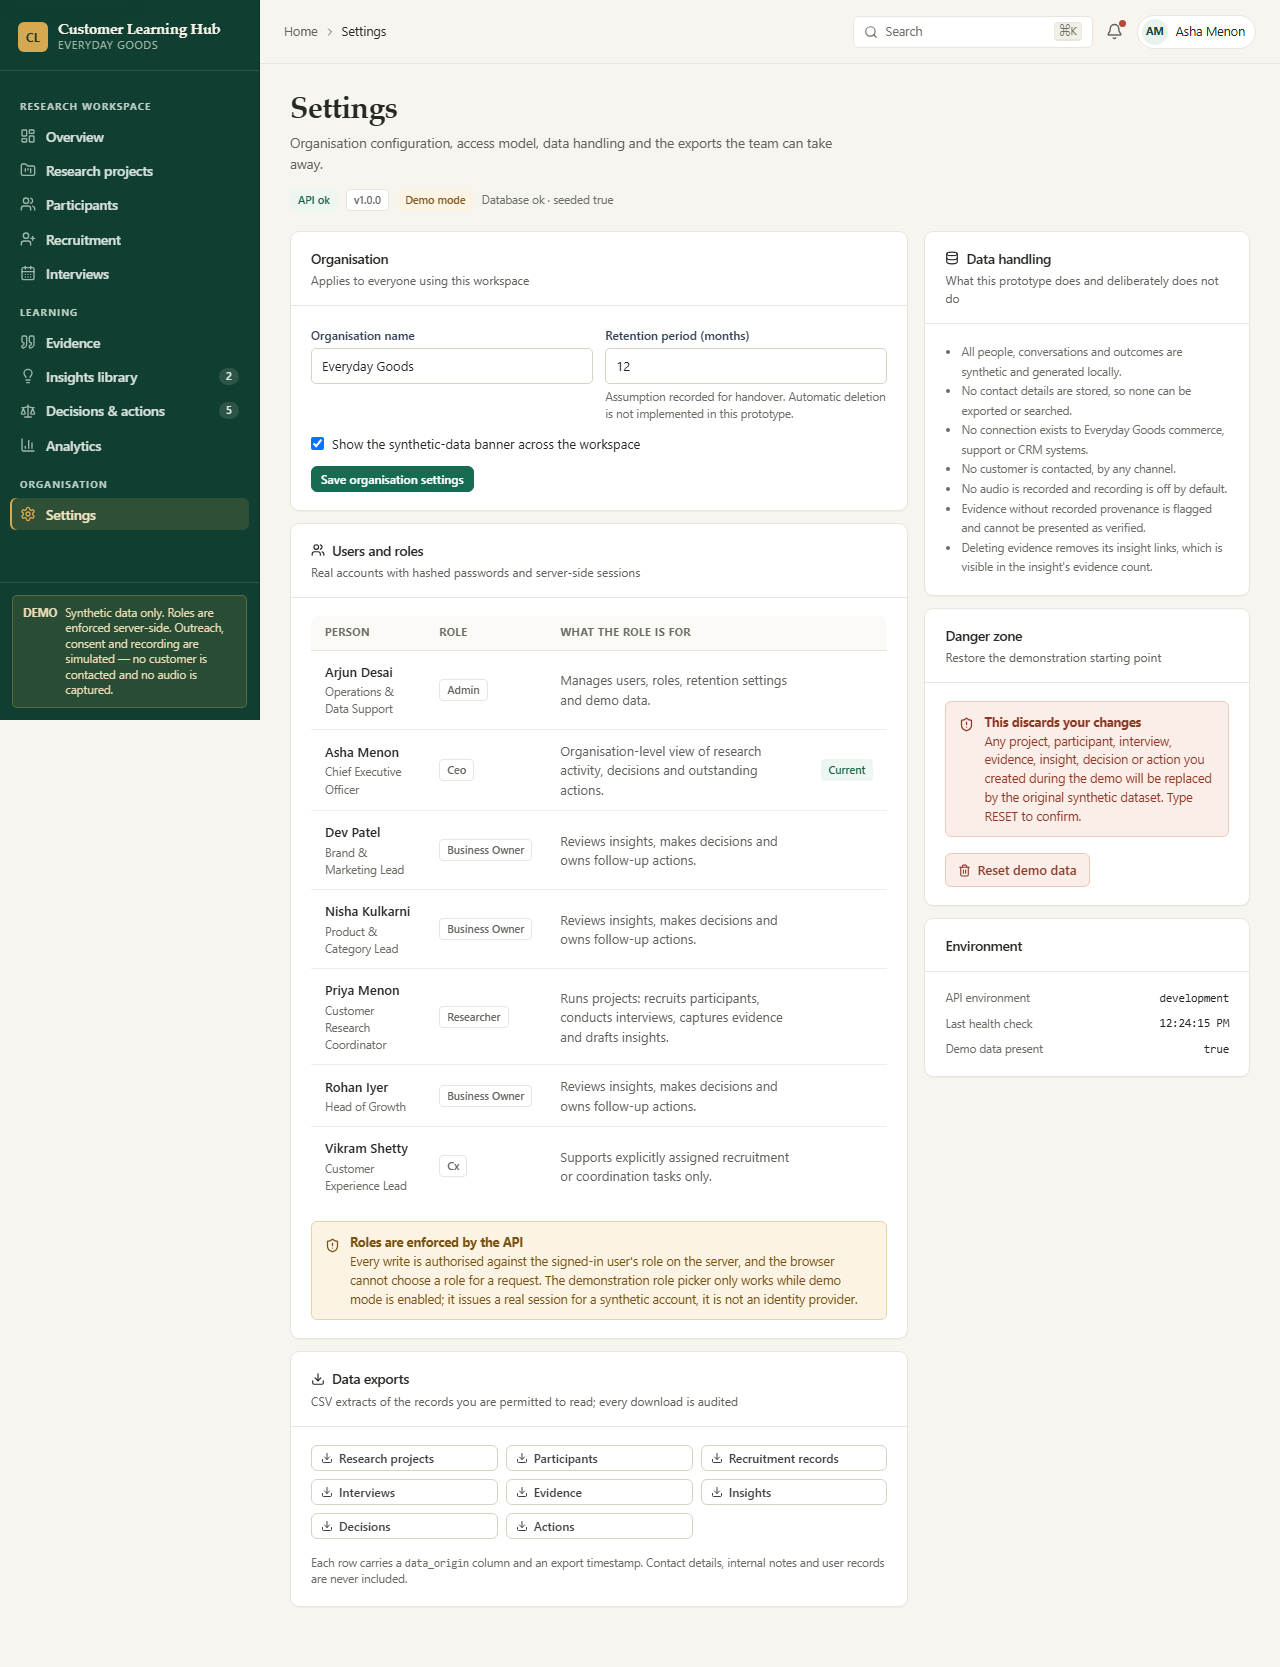
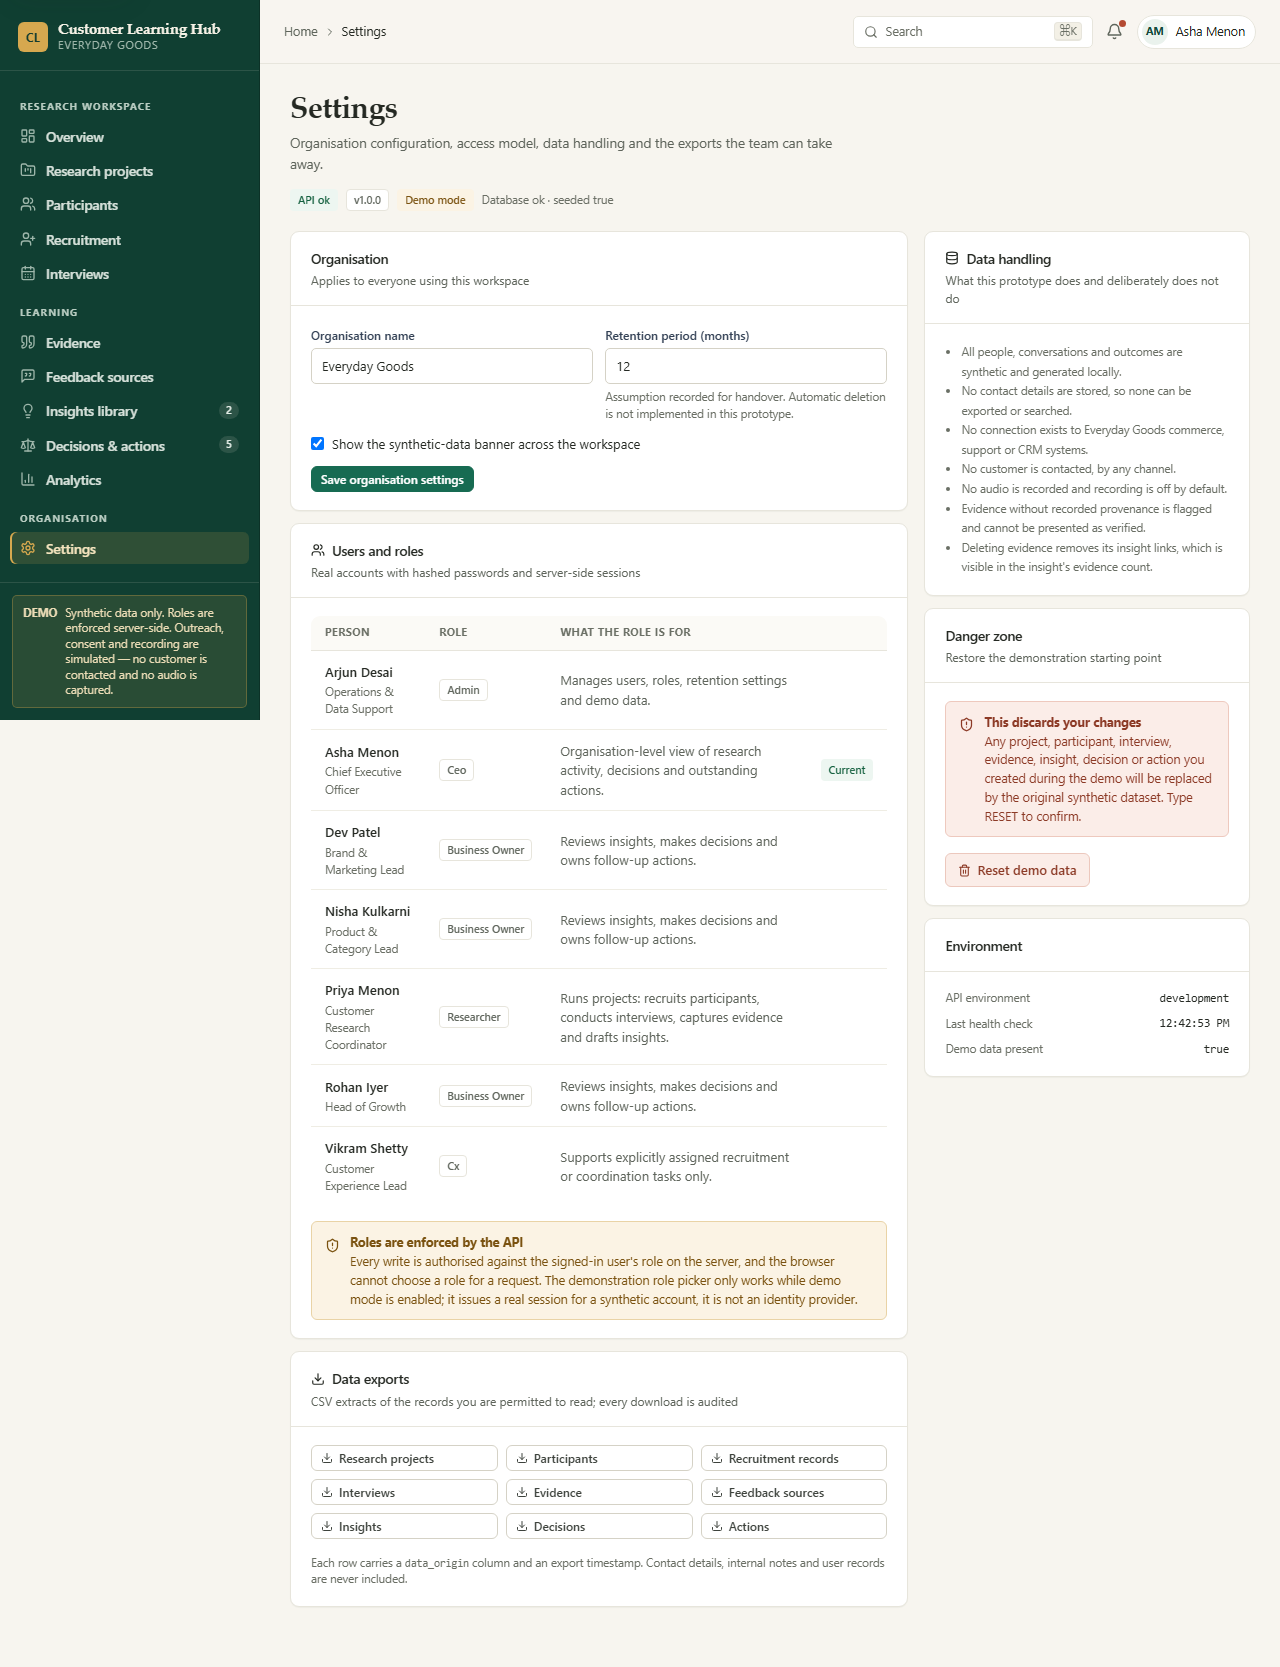
docs: document unified feedback sources and verification results

Changed region(s): [[0.0, 0.2184, 0.2188, 0.3431], [0.5625, 0.9046, 0.5938, 0.9358]]

diff --git a/docs/database.md b/docs/database.md
@@ -15,6 +15,8 @@ User 1───* ResearchProject 1───* ResearchQuestion
               ├──* Interview 1───* InterviewGuideQuestion
               │        ├──* ConsentRecord
               │        └──* Evidence
+              ├──* FeedbackRecord *───1 Participant (optional)
+              │        └── optional link to Interview
               ├──* Insight 1──* InsightEvidence *──1 Evidence
               └──* Decision 1──* DecisionInsight *──1 Insight
                        │        └──* DecisionEvidence *──1 Evidence
@@ -38,6 +40,7 @@ OrganizationSetting (single row, id = "default")
 | `interview_guide_questions` | interview_id, text, purpose, order_index, is_leading | Cascade with interview |
 | `consent_records` | interview_id, participant_id, consent_type, status, recorded_by_id, recorded_at, note | Auditable per consent type |
 | `evidence` | code (unique), interview_id, project_id, participant_id, evidence_type, content, interpretation, customer_context, segment, provenance, provenance_status, confidence, review_status, captured_at | The core record |
+| `feedback_records` | code (unique), project_id, participant_id (nullable), interview_id (nullable), source_type, collection_method, source_reference, collected_at, contributor, content, interpretation, context, verification_status, created_by_id | Unified collection source; unattributed records allowed. `ix_feedback_project_source` |
 | `insights` | code (unique), title, summary, interpretation, research_question, project_id, status, confidence, owner_id, limitations, segments (JSON), validated_at | `validated_internal` is a review state |
 | `insight_evidence` | insight_id, evidence_id, role, note | `uq_insight_evidence` |
 | `decisions` | code (unique), title, business_function, problem_statement, description, rationale, limitations, project_id, owner_id, decision_date, status, evidence_sufficient | Nullable sufficiency = not assessed |
@@ -54,8 +57,10 @@ OrganizationSetting (single row, id = "default")
 - Deleting a user sets ownership/actor columns to `NULL` (`ondelete="SET NULL"`).
 - Deleting an insight or evidence cascades its link rows; the other side is preserved so the
   loss of support is visible.
-- Deleting an interview cascades its guide, consent records and evidence; the participant and
-  project remain.
+- Deleting an interview cascades its guide, consent records and evidence; feedback records keep
+  their statement but their interview link is set to `NULL`. The participant and project remain.
+- Deleting a feedback source removes its statement and links; the project, participant and
+  interview survive. Deletion is written to `activity_logs` before the row is removed.
 - Unique constraints prevent duplicate evidence links on both insights and decisions.
 
 ## Indexes
@@ -72,7 +77,8 @@ cd backend
 .venv/Scripts/python.exe -m alembic revision --autogenerate -m "describe change"
 ```
 
-The initial revision is `alembic/versions/fb86ec9b6cc0_initial_schema.py`. Startup table
+The initial revision is `alembic/versions/fb86ec9b6cc0_initial_schema.py`; the feedback table is
+added by `e5f6a7b8c9d0_feedback_sources.py`. Startup table
 creation is a convenience for the demo; a production deployment should run migrations before
 accepting traffic.
 
@@ -80,8 +86,9 @@ accepting traffic.
 
 `app/seed/demo_data.py` creates the synthetic Everyday Goods dataset: users, projects with
 questions, participants across four segments, recruitment history, interviews with guides and
-consent, evidence with and without provenance, insights with supporting and contradictory
-links, decisions, actions and activity entries. Seeding is idempotent: it is skipped when users
+consent, evidence with and without provenance, feedback sources spanning interviews, surveys,
+support, reviews and imports, insights with supporting and contradictory links, decisions,
+actions and activity entries. Seeding is idempotent: it is skipped when users
 exist, and `POST /demo/reset` rebuilds it inside one transaction.
 
 **All rows are synthetic.** No real customer data is present, and no contact details exist in

diff --git a/docs/api.md b/docs/api.md
@@ -53,7 +53,7 @@ Every route below requires the `admin` role; a researcher or reviewer receives `
 | GET | `/search?q=&types=` | Global search across seven entity types |
 | GET | `/settings` / PATCH | Organisation settings (name, research lead, recording default) |
 | POST | `/demo/reset` | Rebuild the synthetic dataset (`{"confirm": true, "phrase": "RESET"}`) |
-| GET | `/exports/{entity}.csv` | CSV export for `projects`, `participants`, `recruitment`, `interviews`, `evidence`, `insights`, `decisions`, `actions`; any signed-in member; `X-Row-Count`, `X-Data-Origin`; audited |
+| GET | `/exports/{entity}.csv` | CSV export for `projects`, `participants`, `recruitment`, `interviews`, `evidence`, `feedback`, `insights`, `decisions`, `actions`; any signed-in member; `X-Row-Count`, `X-Data-Origin`; audited |
 
 ## Projects
 
@@ -96,6 +96,30 @@ Every route below requires the `admin` role; a researcher or reviewer receives `
 | POST | `/interviews/{id}/recording` | Rejected unless recording consent is `granted` |
 | GET | `/interviews/guide/default` | Neutral guide plus quality rules |
 
+## Feedback sources
+
+All routes require a session. Writes require the `researcher` or `admin` role; a `cx` or
+`business_owner` account receives `403 forbidden`.
+
+| Method | Path | Notes |
+| --- | --- | --- |
+| GET | `/feedback` | `project_id`, `participant_id`, `source_type[]`, `verification_status[]`, `unattributed_only`, `q`; returns source counts, unverified and unattributed totals |
+| POST | `/feedback` | 201. Required: `project_id`, `source_type`, `collection_method`, `content`. Optional: `participant_id`, `interview_id`, `source_reference`, `collected_at`, `contributor`, `interpretation`, `context`, `verification_status` |
+| GET | `/feedback/{id}` | One source with project, participant, interview and creator refs, plus `research_depth` and `depth_note` |
+| PATCH | `/feedback/{id}` | Edits content, interpretation, context, contributor, reference, method, source type, participant, collected date or verification. Project and interview links are immutable |
+| DELETE | `/feedback/{id}` | Audited delete; returns the deleted code |
+
+Rules enforced by the API:
+
+- `source_type=interview` requires an `interview_id` in the same project; other source types may
+  not link an interview. Cancelled interviews are rejected.
+- `verification_status=verified` requires a non-empty `source_reference`.
+- `participant_id` is optional. An unattributed record is returned with `is_attributed: false`.
+- `research_depth` is derived from the collection method: interviews are `deep`, written and
+  structured feedback `medium`, short surveys `limited`, and support/review/import/manual records
+  `context`. `depth_note` explains the limitation.
+- The collection date may not be in the future.
+
 ## Evidence, insights, decisions, actions
 
 | Method | Path | Notes |
@@ -130,6 +154,12 @@ Every route below requires the `admin` role; a researcher or reviewer receives `
 - Insight: draft, under_review, validated_internal, needs_more_research, archived.
 - Decision: proposed, under_review, accepted, rejected, deferred.
 - Action: not_started, in_progress, completed, blocked.
+- Feedback source: interview, written_feedback, structured_form, short_survey, customer_support,
+  product_review, manual_entry, csv_import.
+- Collection method: in_person_interview, video_interview, phone_interview, written_feedback,
+  structured_form, short_survey, support_feedback, product_review, imported_feedback,
+  manual_entry.
+- Verification: unverified, needs_review, verified.
 
 ## Examples
 

diff --git a/README.md b/README.md
@@ -98,6 +98,7 @@ seed is idempotent: it is skipped when users already exist.
 | Participants | Synthetic directory, segment and eligibility filters, purchase context, participation history; no contact fields accepted |
 | Recruitment | Ten-stage pipeline, append-only history, segment coverage, defined response-rate denominator |
 | Interviews | Schedule, reschedule, cancel, complete, neutral guide, consent records, notes, summary, follow-up questions |
+| Feedback sources | Interviews, written feedback, structured forms, short surveys, support feedback, product reviews, manual entries and CSV imports in one provenance-preserving record; explicit depth labels; verification requires a source reference |
 | Evidence | Five types, provenance and verification status, review action, correction, supporting and contradictory links |
 | Insights | Create, edit, link/unlink evidence, confidence, limitations, review, related research |
 | Decisions | Problem, rationale, limitations, linked sources, owner, status; unevidenced decisions labelled |
@@ -105,7 +106,7 @@ seed is idempotent: it is skipped when users already exist.
 | Overview | Derived metrics, segment coverage, timeline, outstanding follow-ups, activity trail |
 | Analytics | Basis-labelled metrics, reuse detail, unresolved questions, measurement gaps |
 | Search | Deterministic search across seven entity types, with related-research suggestions |
-| Exports | Eight CSV entities with correct headers, Unicode, formula-injection safety, audit logging and empty-dataset handling |
+| Exports | Nine CSV entities, including feedback sources, with correct headers, Unicode, formula-injection safety, audit logging and empty-dataset handling |
 | Settings | Organisation name, research lead, recording default, retention months, demo reset |
 | Authentication | Email + password, PBKDF2 hashing, server-side sessions in an HTTP-only cookie, sign-out, password change |
 | Authorisation | API-enforced roles on every write; the browser cannot assert a role |
@@ -142,7 +143,7 @@ backend/
   app/schemas/            Pydantic contracts
   app/seed/               synthetic demo dataset
   alembic/                migration environment and initial revision
-  tests/                  79 pytest tests, including auth and export suites
+  tests/                  91 pytest tests, including auth, feedback and export suites
 frontend/
   src/pages/              one component per screen
   src/components/         shared UI, evidence card, search, dialogs
@@ -159,12 +160,12 @@ These commands were executed for this release:
 
 ```powershell
 cd backend
-.venv\Scripts\python.exe -m pytest -q                 # 79 passed
+.venv\Scripts\python.exe -m pytest -q                 # 91 passed
 
 cd ..\frontend
 npm run typecheck                                     # clean
 npm run build                                         # clean (one chunk-size advisory)
-npx playwright test                                   # 13 passed
+npx playwright test                                   # 14 passed
 
 cd ..
 docker compose up -d --build                          # both services healthy

diff --git a/docs/changelog.md b/docs/changelog.md
@@ -2,6 +2,41 @@
 
 Format: what changed and why it matters. No claim is made for a change that was not executed.
 
+## 1.5.0 — Unified feedback sources
+
+### Added
+
+- `feedback_records` table and `FeedbackRecord` model covering eight source types: interview,
+  written feedback, structured form, short survey, customer support, product review, manual
+  entry and CSV import. Each record stores the original words, collection method, source
+  reference, collection date, contributor, project, optional participant and interview, and a
+  separate researcher interpretation.
+- `/api/v1/feedback` CRUD: list with project/source/verification/attribution/search filters,
+  create, read, update and audited delete. Writes require the researcher or administrator role
+  through the existing server-side policy.
+- Explicit research-depth classification (`deep`, `medium`, `limited`, `context`) with a note per
+  collection method. A short survey is never presented as equivalent to a moderated interview.
+- Verification requires a source reference. Interview sources must link to an interview in the
+  same project, and a cancelled interview cannot produce feedback. Unattributed records are
+  allowed but labelled everywhere.
+- Feedback sources page with source/verification/attribution filters, project filter, a create and
+  edit form, one-click verification, and a confirmed delete.
+- Feedback sources added as the ninth CSV export, including separate `content` and
+  `interpretation` columns.
+- Eleven backend tests and a browser journey for create, verify and delete. All primary-screen
+  accessibility, smoke and responsive checks now include the new page.
+- Five seeded synthetic feedback sources so the demo shows interviews, a survey, support
+  feedback, a product review and an import side by side.
+
+### Verified
+
+- Backend: 91 passed.
+- Browser: 14 passed, including axe and all nine exports.
+- `tsc --noEmit` and `vite build`: clean.
+
+No external support, review or CRM system is connected. Records only exist when someone with
+permission creates or imports them, and the deep-link to an external system is never implied.
+
 ## 1.4.0 — Executive Emerald redesign and browser-verified exports
 
 ### Changed

diff --git a/docs/testing.md b/docs/testing.md
@@ -32,6 +32,7 @@ The Playwright suite expects the API at `http://127.0.0.1:8000/api/v1` (override
 | `tests/test_pipeline.py` | Contacted/response-rate definitions, distinct-participant counting, interview-driven history events, stage-count/filter agreement, coverage derivation |
 | `tests/test_integrity.py` | Formula-injection neutralisation, settings persistence, link uniqueness, sufficiency recomputation, unlink audit trail |
 | `tests/test_seed.py` | Demo reset repeatability, unique generated codes, synthetic labelling, provenance mix |
+| `tests/test_feedback.py` | Statement and interpretation kept separate, survey depth labelled as limited, unattributed sources allowed and marked, verified sources require a reference, interview/project matching, source-type/interview mismatch, CX role rejection, filtering and review, audited deletion, CSV content preservation |
 
 ## Actual results
 
@@ -39,7 +40,7 @@ Executed on 3 November 2026 against the working tree of this release:
 
 ```
 cd backend && python -m pytest -q
-79 passed, 1 warning in 96.47s
+91 passed, 1 warning in 98.79s
 ```
 
 The warning is a third-party Starlette/anyio deprecation notice, not a project failure.
@@ -69,13 +70,13 @@ cookie round-trips through Starlette's `TestClient`.
 - `vite build` — succeeds with one chunk-size advisory (single ~1 MB bundle).
 - Playwright specs: `smoke.spec.ts` (primary screens, deep links, unknown route, API failure
   state, skip link, command palette), `a11y.spec.ts` (axe scan of every screen),
-  `journey.spec.ts` (research-to-decision workflow), `exports.spec.ts` (all eight Settings
-  downloads parsed as CSV), `responsive.spec.ts` (375/768/1024/1440 plus the auth screen),
-  `screenshots.spec.ts` (documentation captures).
+  `journey.spec.ts` (research-to-decision workflow), `exports.spec.ts` (all nine Settings
+  downloads parsed as CSV), `feedback.spec.ts` (record → verify → delete), `responsive.spec.ts`
+  (375/768/1024/1440 plus the auth screen), `screenshots.spec.ts` (documentation captures).
 
 ```
 cd frontend && npx playwright test
-13 passed (2.1m)
+14 passed (2.0m)
 ```
 
 Both servers were running for that run: FastAPI on `127.0.0.1:8000` and Vite on

diff --git a/docs/tasks.md b/docs/tasks.md
@@ -28,11 +28,15 @@ Status as delivered. "Verified" means covered by an executed check, not merely w
 | Analytics | Agreement with the dashboard | `test_dashboard_and_analytics_report_the_same_quantities` |
 | Search | Seven entity types, navigation, related research | Journey; search tests |
 | UX | Loading, empty, error, retry, toasts, confirmations, accessibility | Playwright smoke + axe |
+| Feedback | Unified feedback sources: interviews, written feedback, forms, surveys, support, reviews, manual entry and CSV import | `tests/test_feedback.py`, `feedback.spec.ts` |
+| Feedback | Explicit collection-depth labels, unattributed records, source-reference gate before verification | `test_survey_feedback_is_labelled_as_limited_depth`, `test_verified_source_requires_a_reference`, `test_unattributed_feedback_is_allowed_and_labelled` |
+| Feedback | Feedback page with filtering, edit, verify and audited delete | `feedback.spec.ts` |
+| Exports | Feedback sources added as a ninth CSV export | `exports.spec.ts`, `test_every_export_downloads` |
 | UX | Executive Emerald redesign across all screens and both entry/navigation shells | `docs/design.md`, regenerated screenshots, axe |
 | UX | Responsive layout verified at 375/768/1024/1440 plus the auth screen | `responsive.spec.ts` |
 | Exports | All eight Settings downloads exercised in a browser and parsed | `exports.spec.ts` |
 | Delivery | Docker images, Compose stack, health checks, volume | Compose verification |
-| Delivery | 79 backend tests, 13 browser tests, clean typecheck/build | Final verification run |
+| Delivery | 91 backend tests, 14 browser tests, clean typecheck/build | Final verification run |
 | Docs | Product, architecture, data, API, security, operations, plan, defects | This documentation set |
 
 ## Remaining (prioritised)

diff --git a/docs/data_dictionary.md b/docs/data_dictionary.md
@@ -322,3 +322,27 @@ declared; SQLite stores them with its usual affinity.
 | `id` | `VARCHAR(36)` | no | primary key |
 
 - Constraint `uq_insight_evidence` (UniqueConstraint)
+
+## `feedback_records`
+
+| Column | Type | Nullable | Key / constraint |
+| --- | --- | --- | --- |
+| `code` | `VARCHAR(16)` | no | unique, indexed |
+| `project_id` | `VARCHAR(36)` | no | FK → research_projects.id, indexed |
+| `participant_id` | `VARCHAR(36)` | yes | FK → participants.id, indexed |
+| `interview_id` | `VARCHAR(36)` | yes | FK → interviews.id, indexed |
+| `source_type` | `VARCHAR(32)` | no | indexed |
+| `collection_method` | `VARCHAR(32)` | no | — |
+| `source_reference` | `VARCHAR(320)` | no | — |
+| `collected_at` | `DATETIME` | no | indexed |
+| `contributor` | `VARCHAR(160)` | no | — |
+| `content` | `TEXT` | no | original customer words |
+| `interpretation` | `TEXT` | no | researcher reading, stored separately |
+| `context` | `TEXT` | no | — |
+| `verification_status` | `VARCHAR(24)` | no | indexed, default `unverified` |
+| `created_by_id` | `VARCHAR(36)` | yes | FK → users.id |
+| `id` | `VARCHAR(36)` | no | primary key |
+| `created_at` | `DATETIME` | no | — |
+| `updated_at` | `DATETIME` | no | — |
+
+- Composite index `ix_feedback_project_source` (`project_id`, `source_type`).

diff --git a/docs/design.md b/docs/design.md
@@ -70,8 +70,11 @@ palette, modal, toasts and row hover are the animated surfaces. A global
 `components/ui.tsx` provides `Pill`, `SectionCard`, `PageHeader`, `StatCard`, `EmptyState`,
 `ErrorState`, `LoadingBlock`, `TableSkeleton`, `Notice`, `Spinner`, `HonestyNote`, `MetaItem`
 and `ProgressBar`. `EvidenceCard` puts the customer's statement and the researcher's
-interpretation in separate labelled blocks with different surfaces. `ConfirmDialog` gates
-destructive actions and supports a typed confirmation phrase.
+interpretation in separate labelled blocks with different surfaces. The feedback workspace uses
+the same rule: `.feedback-card` carries a source-coloured left edge, a quote block, a tinted
+interpretation block labelled as not the customer's words, and a provenance block. Its depth
+pill is always visible, so a survey is never styled like a moderated interview. `ConfirmDialog`
+gates destructive actions and supports a typed confirmation phrase.
 
 ## Required page states
 
